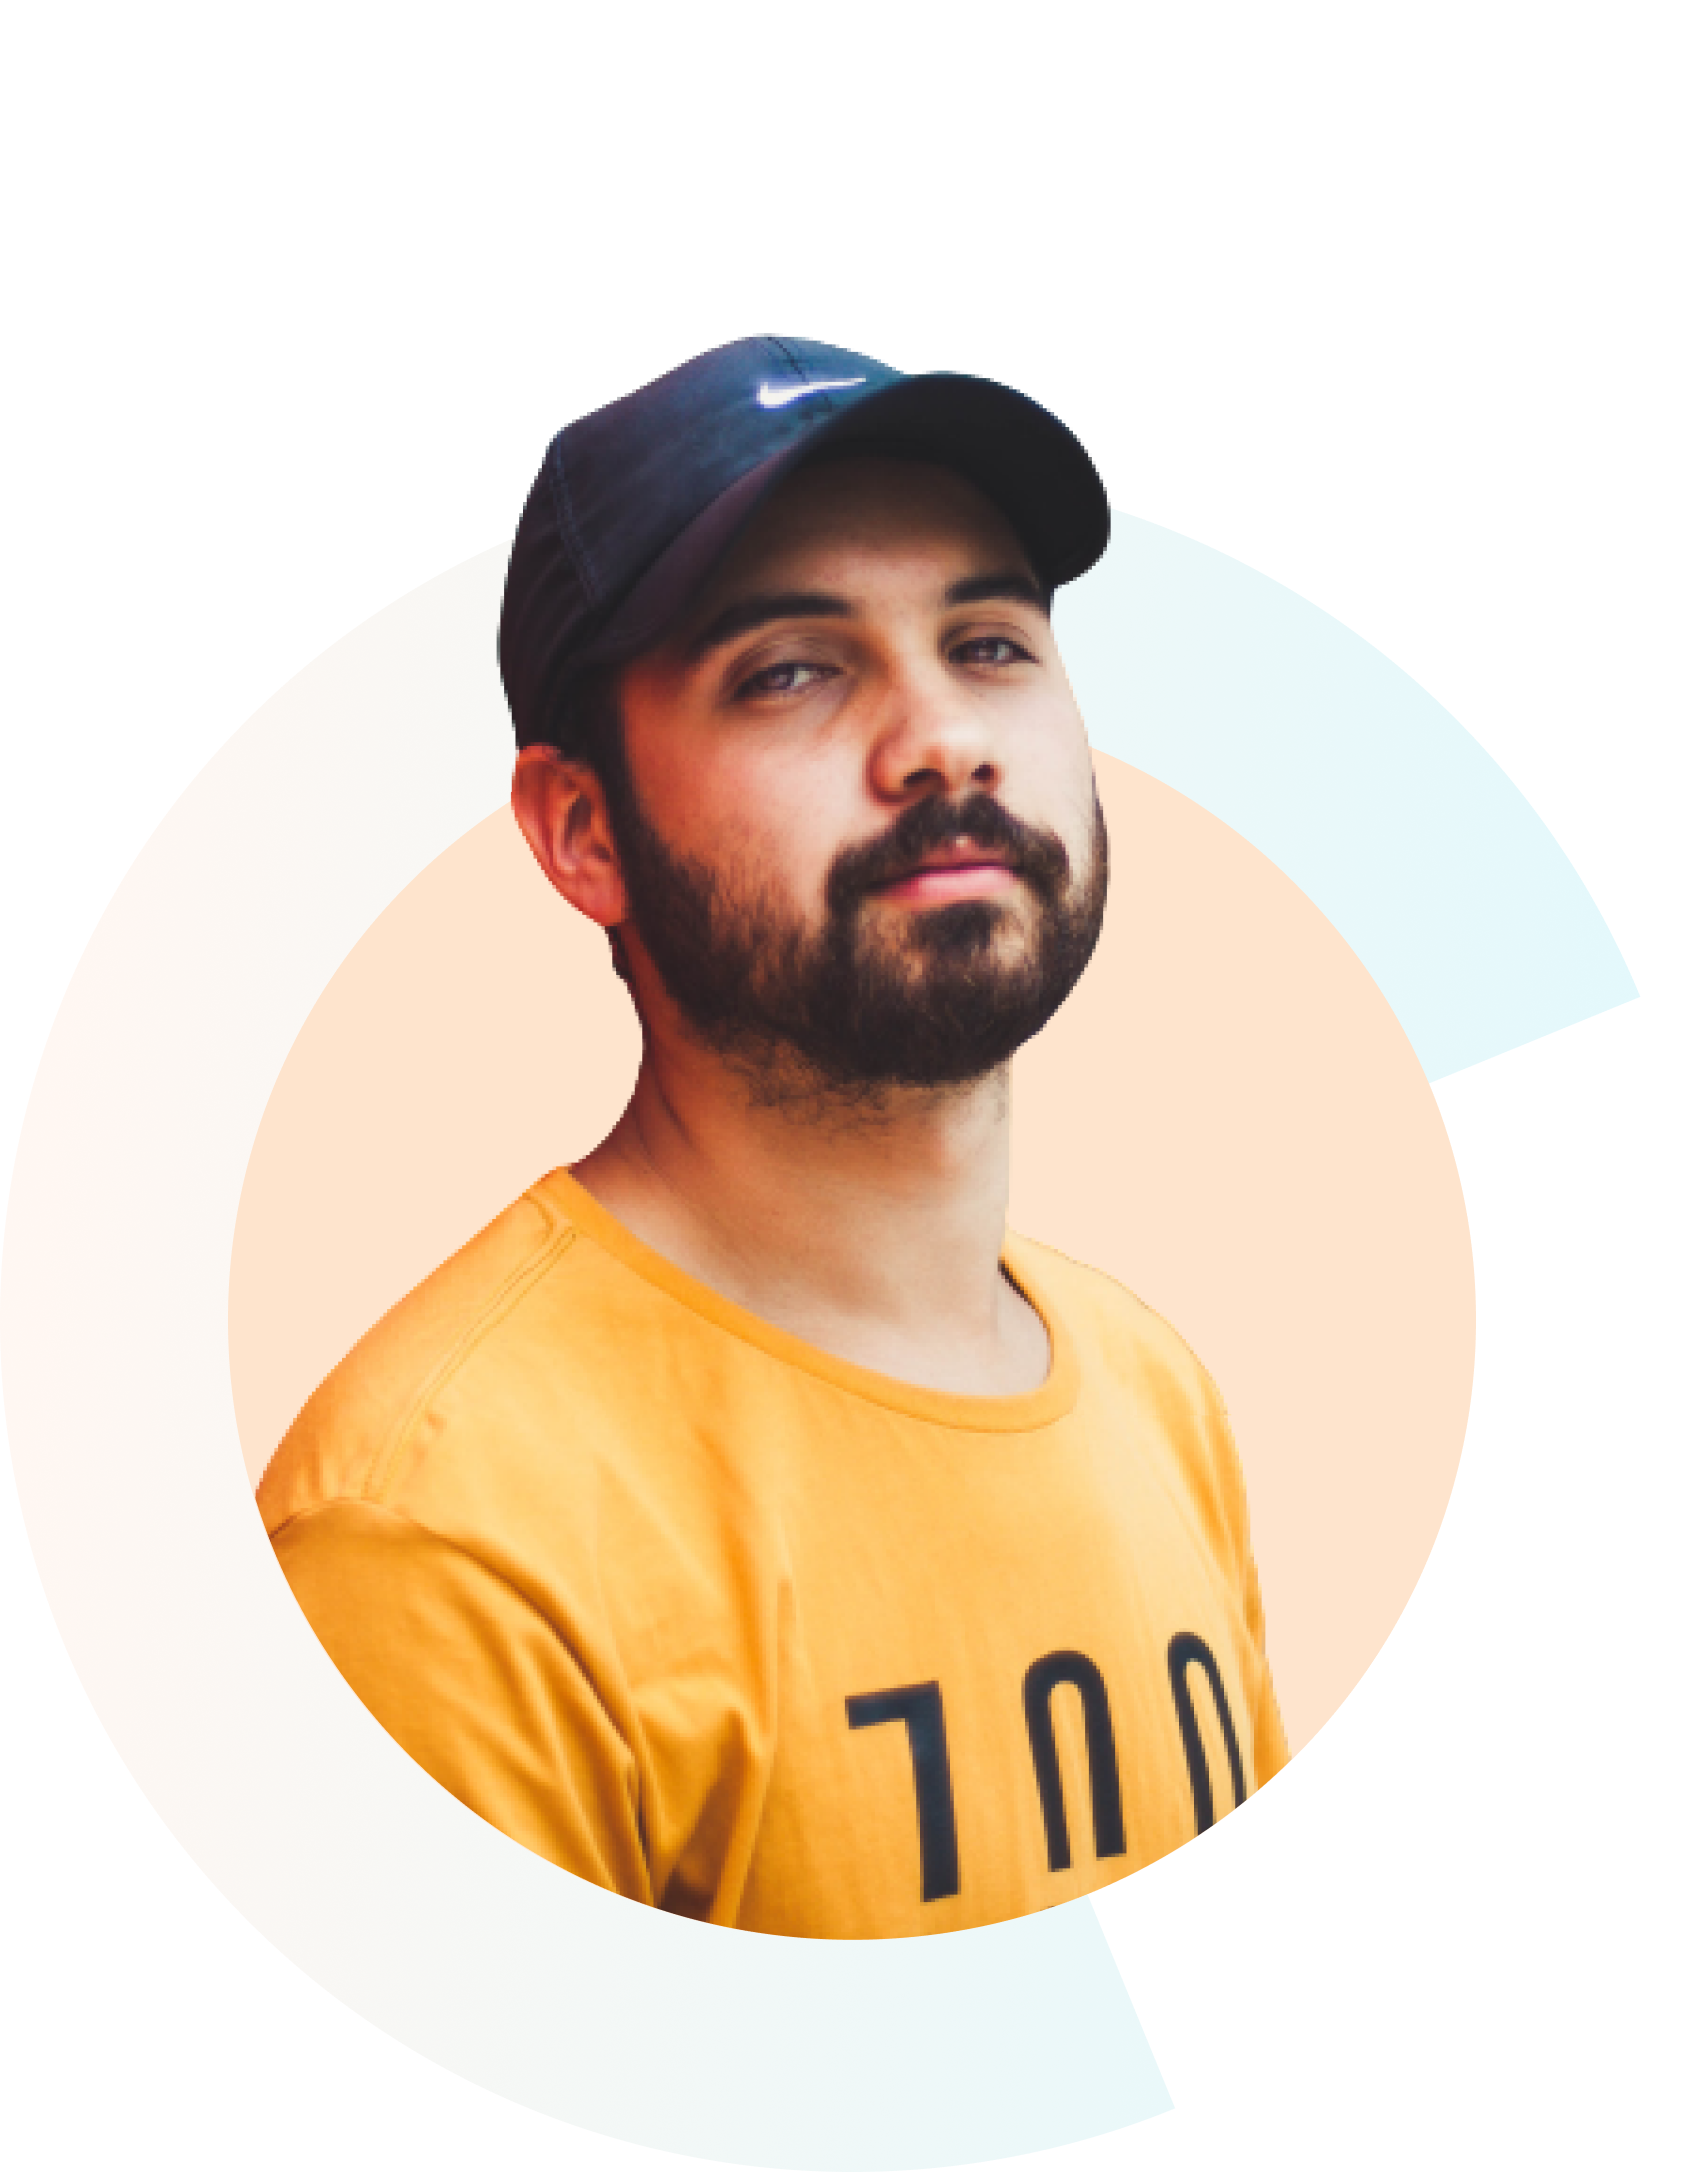
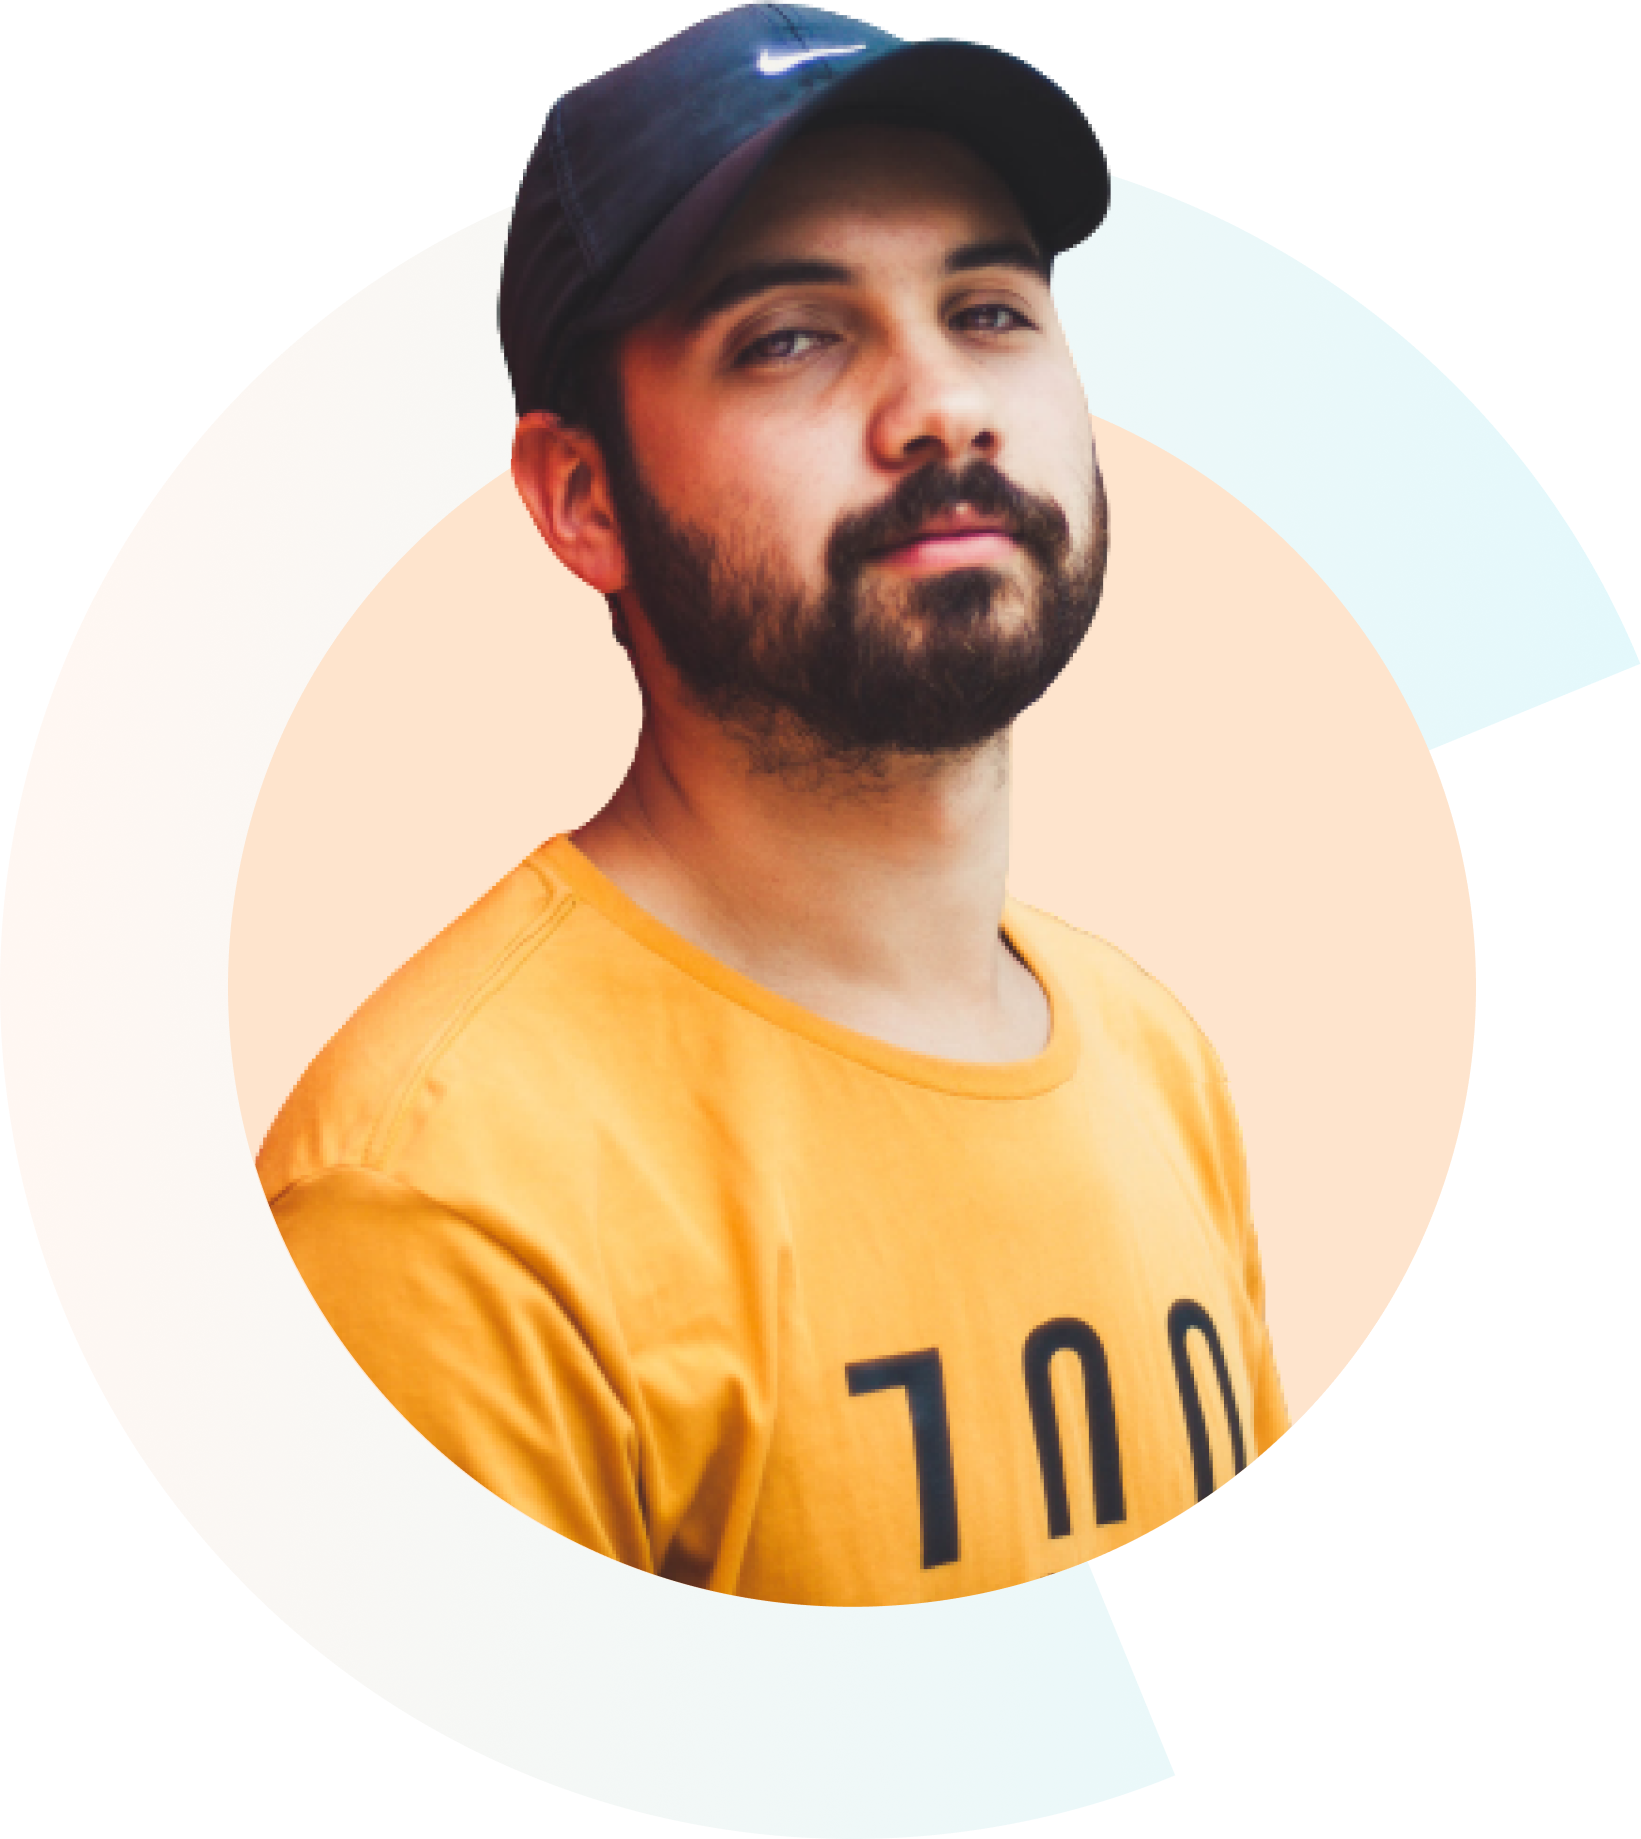
feature style added

diff --git a/index.html b/index.html
@@ -16,30 +16,30 @@
             <div class="main-title">
                 <h1>Stay Focused on <br> <span>Mission 2022</span></h1>
             </div>
-            <p>Lorem ipsum dolor sit amet, usu cu esse possit referrentur, at eam falli deterruisset. No duo populo animal noluisse, enim</p>
-            <a href="http://github.com/wpshamim">Explore Now</a>
+            <p class="f-size-18">Lorem ipsum dolor sit amet, usu cu esse possit referrentur, at eam falli deterruisset. No duo populo animal noluisse, enim</p>
+            <a class="mission-btn" href="http://github.com/wpshamim">Explore Now</a>
             <p>Scroll down to explore more about us</p>
         </div>
         <div class="header-right half-width">
-            <img src="images/person/person-0.png" alt="">
+            <img class="feature-image float-right" src="images/person/person-0.png" alt="">
         </div>
     </header>
 
-    <section>
+    <section id="our-missions">
         <div class="full-width">
-            <h1>My Mission in <span>2022</span></h1>
+            <h1 class="text-center">My Mission in <span>2022</span></h1>
             <div class="our-missions section-inline">
-                <div class="mission feature-bd-cyan">
+                <div class="mission bg-cyan">
                     <img src="images/illustrators/illustrator-1.png" alt="">
                     <h3>Mission</h3>
                     <p>Amet minim mollit non deserunt ullamco est sit aliqua dolor do amet sint. Velit officia consequat duis enim velit mollit.</p>
                 </div>
-                <div class="mission">
+                <div class="mission bg-red">
                     <img src="images/illustrators/illustrator-2.png" alt="">
                     <h3>Vission</h3>
                     <p>Amet minim mollit non deserunt ullamco est sit aliqua dolor do amet sint. Velit officia consequat duis enim velit mollit.</p>
                 </div>
-                <div class="mission">
+                <div class="mission bg-yellow">
                     <img src="images/illustrators/illustrator-3.png" alt="">
                     <h3>Goals</h3>
                     <p>Amet minim mollit non deserunt ullamco est sit aliqua dolor do amet sint. Velit officia consequat duis enim velit mollit.</p>
@@ -52,10 +52,10 @@
     <section>
         <div class="full-width section-inline">
             <div class="left-feature half-width">
-                <img src="images/pictures/coding.png" alt="">
+                <img class="feature-image" src="images/pictures/coding.png" alt="">
             </div>
             <div class="right-feature half-width">
-                <h2>Develop <span>Without Limits</span></h2>
+                <h2>Develop <br> <span>Without Limits</span></h2>
                 <p>Lorem ipsum dolor sit amet, usu cu esse possit referrentur, at eam falli deterruisset. No duo populo animal noluisse, enim deterruisset eos et. An mundi noster pri, ea eos quas expetendis scripserit, affert gubergren dissentias et cum.</p>
                 <a class="mission-btn" href="http://github.com">Read the Documentation</a>
             </div>
@@ -65,7 +65,7 @@
     <section>
         <div class="full-width section-inline">
             <div class="left-project half-width">
-                <h2>Know our <span>Global Community</span></h2>
+                <h2>Know our <br> <span>Global Community</span></h2>
                 <p>Lorem ipsum dolor sit amet, usu cu esse possit referrentur, at eam falli deterruisset. No duo populo animal noluisse, enim deterruisset eos et. An mundi noster pri, ea eos quas expetendis scripserit, affert gubergren dissentias et cum.</p>
                 <a class="mission-btn" href="http://github.com">Read the Documentation</a>
             </div>

diff --git a/style.css b/style.css
@@ -5,6 +5,10 @@ body {
 img {
     width: 100%;
 }
+p {
+    font-size: 16px;
+}
+
 .full-width {
     width: 80%;
     margin: auto;
@@ -16,12 +20,71 @@ img {
     display: flex;
     align-items: center;
 }
+.f-size-18 {
+    font-size: 18px;
+}
+.main-title {
+    border-left-width: 4px;
+    border-left-style: solid;
+    border-image-source: linear-gradient(#FF5959, #FF3939);
+    border-image-slice: 1;
+    padding-left: 10px;
+}
 .main-title h1 {
     font-family: 'Yeseva One', cursive;
+    font-size: 55px;
+    color: #333;
+    font-weight: 500;
+    margin: 0;
+}
+.main-title h1 span {
+    color: #FFAD5A;
+}
+.mission-btn {
+    background-image: linear-gradient(#FF5959, #FF3939);
+    padding: 10px 25px;
+    border-radius: 5px;
+    font-size: 16px;
+    text-decoration: none;
+    color: #ffffff;
 }
 
-.feature-bd-cyan {
-    background-color: #4F9DA6;
+.float-right {
+    float: right;
+}
+.feature-image {
+    max-width: 420px;
+}
+.text-center {
+    text-align: center;
+}
+#our-missions h1 {
+    font-size: 48px;
+    color: #13103a;
+}
+#our-missions h1 span {
+    color: #FFAD5A;
+}
+.mission:first-child {
+    margin-left: 0;
+}
+.mission {
+    margin: 10px;
+    padding: 25px;
+    border-radius: 20px;
+}
+.mission h3 {
+    font-size: 25px;
+}
+.mission img {
+    width: 150px;
+}
+.bg-cyan {
+    background-color: rgba(79, 157, 166, 0.212);
+}.bg-red {
+    background-color: rgba(255, 89, 89, 0.212);
+}.bg-yellow {
+    background-color: rgb(255, 244, 214);
 }
 
 footer {
